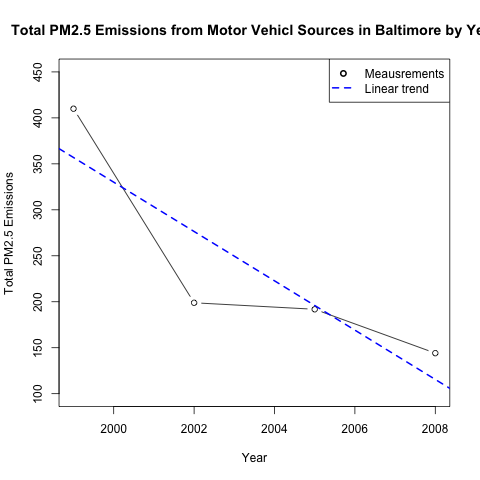
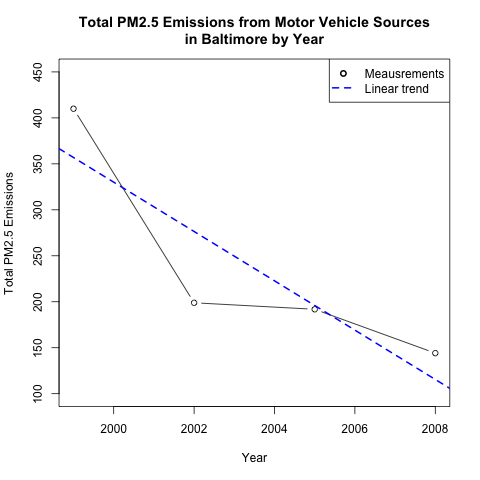
Added README and general tidy up
Probably a bit fussy to be honest, but there you go!

Changed region(s): [[0.0312, 0.0312, 1.0, 0.0938]]

diff --git a/README.md b/README.md
@@ -1,0 +1,18 @@
+# Exploratory Data Analysis - Course Project 2
+This repo contains the files and output for my submission for Course Project 2 for the Dec 2015 course. I've submitted the files through Coursera as well, but this may be an easier way for reviewers to check my work.
+
+## Files
+### plotx.png
+All .png files are the output set to answer the questions specified in the assignment
+
+### plotx.R
+All .R files contain the code required to reproduce the plots shown in the .png files.
+
+## Answers
+
+1. Total emissions from PM2.5 have decreased in the United States from 1999 to 2008.
+2. Total emissions from PM2.5 have decreased in Baltimore City, although this has not been a steady decline, with a substantial rise in readings in 2005, before dropping again in 2008.  It would be interesting to explore what drove the overall increase in 2005 readings.
+3. Non-point sources have seen the most significant decrease in PM2.5 emissions from 1999 to 2008 in the Baltimore City area, with Onroad also recording a small decrease; Nonroad source emissions remained level, and Point source emissions recorded a small increase over this time.
+4. Total PM2.5 emissions from Coal for the US have decreased substantially from 1999 to 2008, driven by the decrease in emissions from the Fuel Comb - Electric Generation - Coal EI Sector.
+5. Total PM2.5 emissions from Motor Vehicle sources in Baltimore City have decreased substantially from 1999 to 2008, with the largest drop occuring between 1999 and 2002.
+6. Baltimore City has seen a substantial decrease in PM2.5 emissions from Motor Vehicle Sources, as noted above, while Los Angeles County has seen a marked increase in these same emissions.
